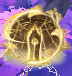
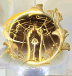
fix(Activity999): 修复挑战流程多处误判与卡死, 增强异常恢复能力
庭院入口与页面识别:
- 活动入口图标美术更新后旧模板匹配不上, 重制入口模板并扩大搜索区域
- BOSS 展示页粒子动画会瞬时拉低挑战按钮匹配分, 随机延迟后的页面检查改为 3 秒窗口多帧确认, 不再被单帧误判打断

弹窗遮挡与票尽处理:
- 结算后自动弹出的灵符补给/金花灵符推荐窗没有关闭按钮, 全屏遮罩会吞掉挑战点击且通用战斗对未开战的场景无超时保护, 任务卡死空转; 新增点击双列面板之间的竖向缝隙关闭弹窗
- 挑战点击后 8 秒内确认确实离开精锐页, 被弹窗吞掉时清理并重试; 第二次重试仍弹购买引导窗判定为挑战票耗尽, 顺手关窗后按正常完成顺延调度, 不再触发人工接管

异常现场恢复:
- 活动首页点战斗后若直接进入战斗(跳过回响地图), 原逻辑等不到地图锚点 15 秒即请求接管并留下挂机战斗; 现在识别到准备页或战斗中就接通用战斗流程打完再回精锐页, 地图等待超时放宽到 30 秒容纳鬼王出场动画
- 回响地图入场动画会吞掉第一次菜单点击, 改为循环重试点击直到精锐页出现
- 游戏卡住重启后常恢复在活动深层未知界面, 原逻辑直接接管退出导致整轮调度中断; 现在点左上角返回最多 4 次逐级恢复到已知子页再继续

以上修复均通过 16416 模拟器实测验证

diff --git a/tasks/Activity999/script_task.py b/tasks/Activity999/script_task.py
@@ -1,7 +1,7 @@
 import time
 
 from module.base.timer import Timer
-from module.exception import RequestHumanTakeover
+from module.exception import RequestHumanTakeover, TaskEnd
 from module.logger import logger
 from module.base.random_delay import (
     BATTLE_SETTLEMENT_DELAY,
@@ -21,6 +21,8 @@ class ScriptTask(GeneralBattle, GameUi, Activity999Assets):
     minimum_click_interval = CONTINUOUS_CONFIRM_DELAY
     recognition_click_delay = FIRST_OPERATION_DELAY
     PAGE_WAIT_TIMEOUT = 15
+    # 从活动首页点"战斗"到回响地图加载完成, 中间要过鬼王出场动画, 放宽到 30 秒
+    BATTLE_MAP_TIMEOUT = 30
 
     def is_activity_battle_win(self):
         """Recognize both normal and reward-covered activity settlement pages."""
@@ -40,12 +42,25 @@ class ScriptTask(GeneralBattle, GameUi, Activity999Assets):
         while not timer.reached():
             self.screenshot()
             if self.is_activity_battle_result_closed():
-                return
+                break
             self.click(self.C_ACTIVITY_999_BATTLE_WIN, interval=0.8)
             # This loop has its own deadline; do not let repeated safe clicks
             # trigger click protection before that deadline is evaluated.
             self.device.click_record_clear()
-        raise RequestHumanTakeover('999 battle result could not be closed')
+        else:
+            raise RequestHumanTakeover('999 battle result could not be closed')
+        self.dismiss_supply_popups()
+
+    def dismiss_supply_popups(self):
+        """关闭结算后弹出的灵符补给/金花灵符推荐窗。
+
+        弹窗没有关闭按钮，点击画面最底部边缘（遮罩外区域）即可关闭；
+        弹窗可能多层叠加，固定清理两轮。未弹出时该点击落在精锐页
+        底部空白处，无副作用。
+        """
+        for _ in range(2):
+            self.click(self.C_ACTIVITY_999_POPUP_GAP)
+            time.sleep(1.0)
 
     @staticmethod
     def wait_after_activity_battle():
@@ -65,6 +80,24 @@ class ScriptTask(GeneralBattle, GameUi, Activity999Assets):
         if not self.wait_until_appear(target, wait_time=timeout):
             raise RequestHumanTakeover(message)
 
+    def wait_echo_map_or_battle(self):
+        """点击战斗入口后等待回响地图出现。
+
+        加载动画过长时地图锚点会晚到; 若期间检测到已进入准备页或战斗中,
+        说明这次点击直接生效开打了, 返回 'battle' 交给调用方接战斗流程,
+        避免把进行中的战斗留在现场后请求人工接管。
+        """
+        timer = Timer(self.BATTLE_MAP_TIMEOUT).start()
+        while not timer.reached():
+            self.screenshot()
+            if self.appear(self.I_ACTIVITY_999_ECHO_HOME):
+                return 'map'
+            if self.is_in_prepare(False) or self.is_in_real_battle(False):
+                logger.info('999 battle started before echo map appeared')
+                return 'battle'
+            time.sleep(0.5)
+        raise RequestHumanTakeover('999 battle map did not appear')
+
     def open_elite_page_from_activity(self):
         """Move from the activity home/echo page to the elite challenge page."""
         self.screenshot()
@@ -74,20 +107,26 @@ class ScriptTask(GeneralBattle, GameUi, Activity999Assets):
         if self.appear(self.I_ACTIVITY_999_HOME):
             logger.info('999 activity home detected')
             self.click(self.C_ACTIVITY_999_BATTLE)
-            self.wait_or_raise(
-                self.I_ACTIVITY_999_ECHO_HOME,
-                '999 battle map did not appear',
-            )
+            result = self.wait_echo_map_or_battle()
+            if result == 'battle':
+                # 点战斗直接开打了: 打完这场再回精锐页
+                self.finish_battle()
+                return
             self.screenshot()
 
         if not self.appear(self.I_ACTIVITY_999_ECHO_HOME):
             raise RequestHumanTakeover('999 activity page state is unknown')
 
-        self.click(self.C_ACTIVITY_999_ELITE_MENU)
-        self.wait_or_raise(
-            self.I_ACTIVITY_999_ELITE_PAGE,
-            '999 elite page did not appear',
-        )
+        # 地图入场动画可能吞掉第一次点击，循环重试直到精锐页出现。
+        timer = Timer(self.PAGE_WAIT_TIMEOUT).start()
+        while not timer.reached():
+            self.screenshot()
+            if self.appear(self.I_ACTIVITY_999_ELITE_PAGE):
+                return
+            self.click(self.C_ACTIVITY_999_ELITE_MENU, interval=1.5)
+            # 该循环有自己的超时兜底，重试点击不应在此之前触发点击保护。
+            self.device.click_record_clear()
+        raise RequestHumanTakeover('999 elite page did not appear')
 
     def enter_activity(self):
         """Enter the activity from courtyard and open the elite page."""
@@ -121,6 +160,43 @@ class ScriptTask(GeneralBattle, GameUi, Activity999Assets):
             time.sleep(0.4)
         raise RequestHumanTakeover('999 elite page did not return after battle settlement')
 
+    def confirm_challenge_started(self) -> bool:
+        """确认挑战点击生效；被残留弹窗吞掉时清理后重试。
+
+        点击挑战后精锐页标题会在几秒内被加载/准备页替换；若持续停留在
+        精锐页，说明点击被弹窗遮罩吞掉，此时点击面板缝隙关闭弹窗并重试。
+        重试后购买引导窗仍弹出，说明挑战票已耗尽，返回 False 由调用方
+        正常结束任务。
+
+        Returns:
+            True 表示战斗已开始；False 表示票已耗尽无法继续挑战。
+        """
+        for attempt in range(3):
+            leave_timer = Timer(8).start()
+            stayed = True
+            while not leave_timer.reached():
+                self.screenshot()
+                if not self.appear(self.I_ACTIVITY_999_ELITE_PAGE):
+                    stayed = False
+                    break
+                time.sleep(0.5)
+            if not stayed:
+                return True
+            if attempt > 0:
+                # 关闭弹窗后再次点击挑战仍弹出引导窗，判定为票已耗尽。
+                logger.info('999 challenge tickets exhausted; activity finished')
+                self.click(self.C_ACTIVITY_999_POPUP_GAP)
+                time.sleep(1.0)
+                return False
+            logger.warning('999 challenge click did not start a battle; closing leftover popup and retrying')
+            self.click(self.C_ACTIVITY_999_POPUP_GAP)
+            time.sleep(1.0)
+            self.screenshot()
+            if not self.appear(self.I_ACTIVITY_999_CHALLENGE):
+                raise RequestHumanTakeover('999 challenge button unavailable after popup cleanup')
+            self.click(self.C_ACTIVITY_999_CHALLENGE)
+        return False
+
     def finish_battle(self):
         """Run one battle and return to a usable elite challenge page."""
         result = self.run_general_battle(
@@ -149,10 +225,30 @@ class ScriptTask(GeneralBattle, GameUi, Activity999Assets):
             return 'activity_unknown'
         return 'outside'
 
+    def recover_unknown_subpage(self) -> str:
+        """在活动内但子页未知时, 点击左上角返回逐级退出并重新识别。
+
+        游戏重启后常直接恢复到活动深层的某个界面, 状态机认不出具体子页;
+        每次点返回后重新判定, 回到已知子页即返回该状态。
+        """
+        for _ in range(4):
+            self.screenshot()
+            state = self.get_start_state()
+            if state != 'activity_unknown':
+                return state
+            logger.info('999 unknown subpage, clicking back to recover')
+            self.click(self.C_ACTIVITY_999_BACK, interval=1.5)
+            self.device.click_record_clear()
+            time.sleep(1.0)
+        return self.get_start_state()
+
     def run(self):
         logger.hr('999 ACTIVITY', level=1)
         self.screenshot()
         state = self.get_start_state()
+        if state == 'activity_unknown':
+            # 游戏重启后可能恢复在活动深层界面, 先点返回恢复到已知子页
+            state = self.recover_unknown_subpage()
         logger.info(f'999 startup state: {state}')
 
         if state == 'settlement':
@@ -171,8 +267,7 @@ class ScriptTask(GeneralBattle, GameUi, Activity999Assets):
         elif state == 'outside':
             self.enter_activity()
         else:
-            # Keep the user inside the activity instead of letting generic UI
-            # navigation press Back until it reaches the courtyard.
+            # 恢复后仍是未知状态(返回链上出现了不认识的界面), 交给人工处理
             raise RequestHumanTakeover(
                 '999 is inside the activity, but the current subpage is unknown')
         self.run_elite_loop()
@@ -211,12 +306,25 @@ class ScriptTask(GeneralBattle, GameUi, Activity999Assets):
             if not self.appear(self.I_ACTIVITY_999_CHALLENGE):
                 raise RequestHumanTakeover('999 challenge button unavailable; resources may be exhausted')
             self.wait_before_next_challenge()
-            self.screenshot()
-            if not (self.appear(self.I_ACTIVITY_999_ELITE_PAGE)
-                    and self.appear(self.I_ACTIVITY_999_CHALLENGE)):
+            # BOSS 展示页的粒子动画会瞬时拉低按钮匹配分，单帧误判率高；
+            # 在 3 秒窗口内多帧确认，页面真变了才放弃。
+            confirm_timer = Timer(3).start()
+            page_ok = False
+            while not confirm_timer.reached():
+                self.screenshot()
+                if (self.appear(self.I_ACTIVITY_999_ELITE_PAGE)
+                        and self.appear(self.I_ACTIVITY_999_CHALLENGE)):
+                    page_ok = True
+                    break
+                time.sleep(0.4)
+            if not page_ok:
                 raise RequestHumanTakeover('999 challenge page changed during random delay')
             self.click(self.C_ACTIVITY_999_CHALLENGE)
             logger.info('Click 999 elite challenge')
+            if not self.confirm_challenge_started():
+                # 挑战票耗尽，今日活动打完，按正常完成顺延下次运行。
+                self.set_next_run(task='Activity999', success=True, finish=True)
+                raise TaskEnd
             self.finish_battle()
             completed_count += 1
             logger.info(

diff --git a/tasks/Activity999/assets.py b/tasks/Activity999/assets.py
@@ -11,6 +11,14 @@ class Activity999Assets:
         name='activity_999_safe_random',
     )
 
+    # 弹窗关闭点：双列推荐弹窗（灵符挑战补给/金花灵符）之间 x≈640 的竖向缝隙。
+    # 弹窗没有关闭按钮，遮罩不响应点击；仅两面板之间的缝隙可穿透关闭。
+    C_ACTIVITY_999_POPUP_GAP = RuleClick(
+        roi_front=(620, 300, 40, 200),
+        roi_back=(620, 300, 40, 200),
+        name='activity_999_popup_gap',
+    )
+
     # 奖励图标位于画面中部，结算只能点击面板下方的空白区域。
     # 该区域在返回虚无精锐页后也避开了右下角挑战及底部操作按钮。
     C_ACTIVITY_999_BATTLE_WIN = RuleClick(
@@ -20,10 +28,10 @@ class Activity999Assets:
     )
     # 庭院紫色树下方人物头顶的金色活动入口。
     I_ACTIVITY_999_ENTRY = RuleImage(
-        roi_front=(435, 214, 72, 76),
-        # 庭院角色站位和左侧任务栏会让入口有少量横向漂移。
-        # 搜索框需完整覆盖图标，避免模板在边界处被裁掉。
-        roi_back=(350, 175, 220, 170),
+        roi_front=(709, 259, 72, 76),
+        # 庭院角色站位和皮肤会让入口大范围横向漂移（当前庭院在人物头顶偏右）。
+        # 搜索框从左侧任务提示一直覆盖到画面中部，避免模板在边界处被裁掉。
+        roi_back=(350, 170, 470, 190),
         threshold=0.72,
         method='Template matching',
         file='./tasks/Activity999/res/activity_999_entry.png',
